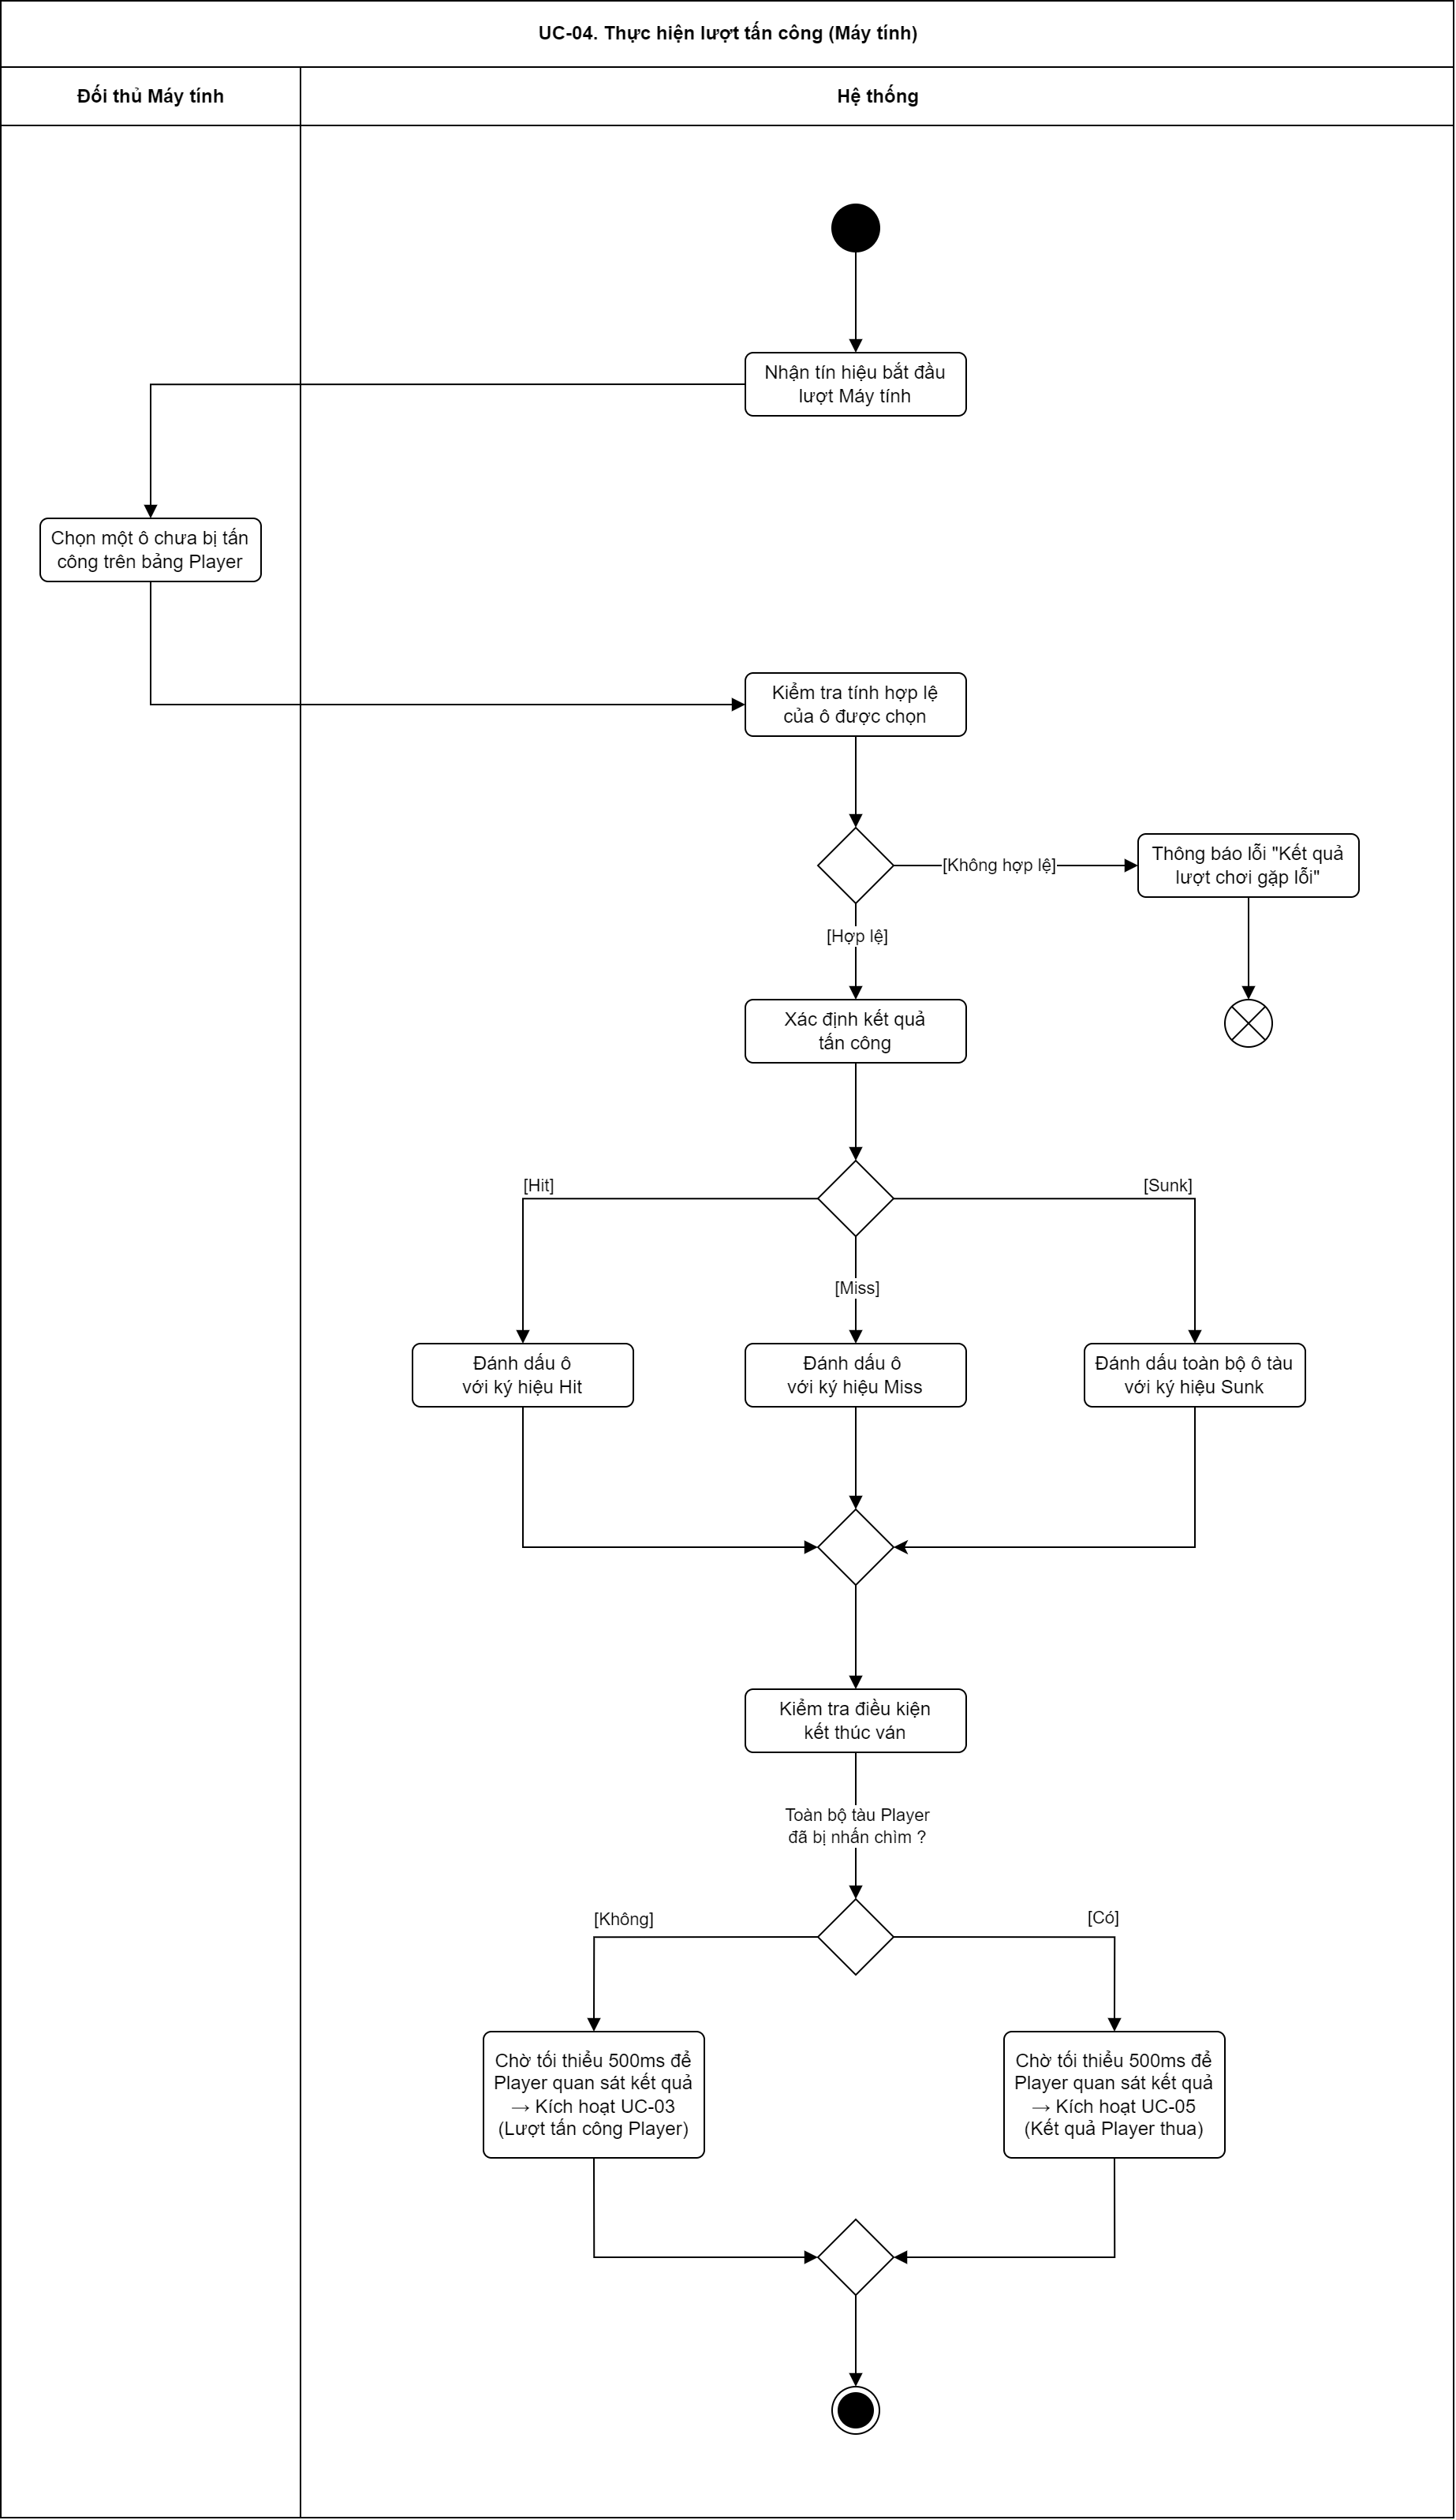
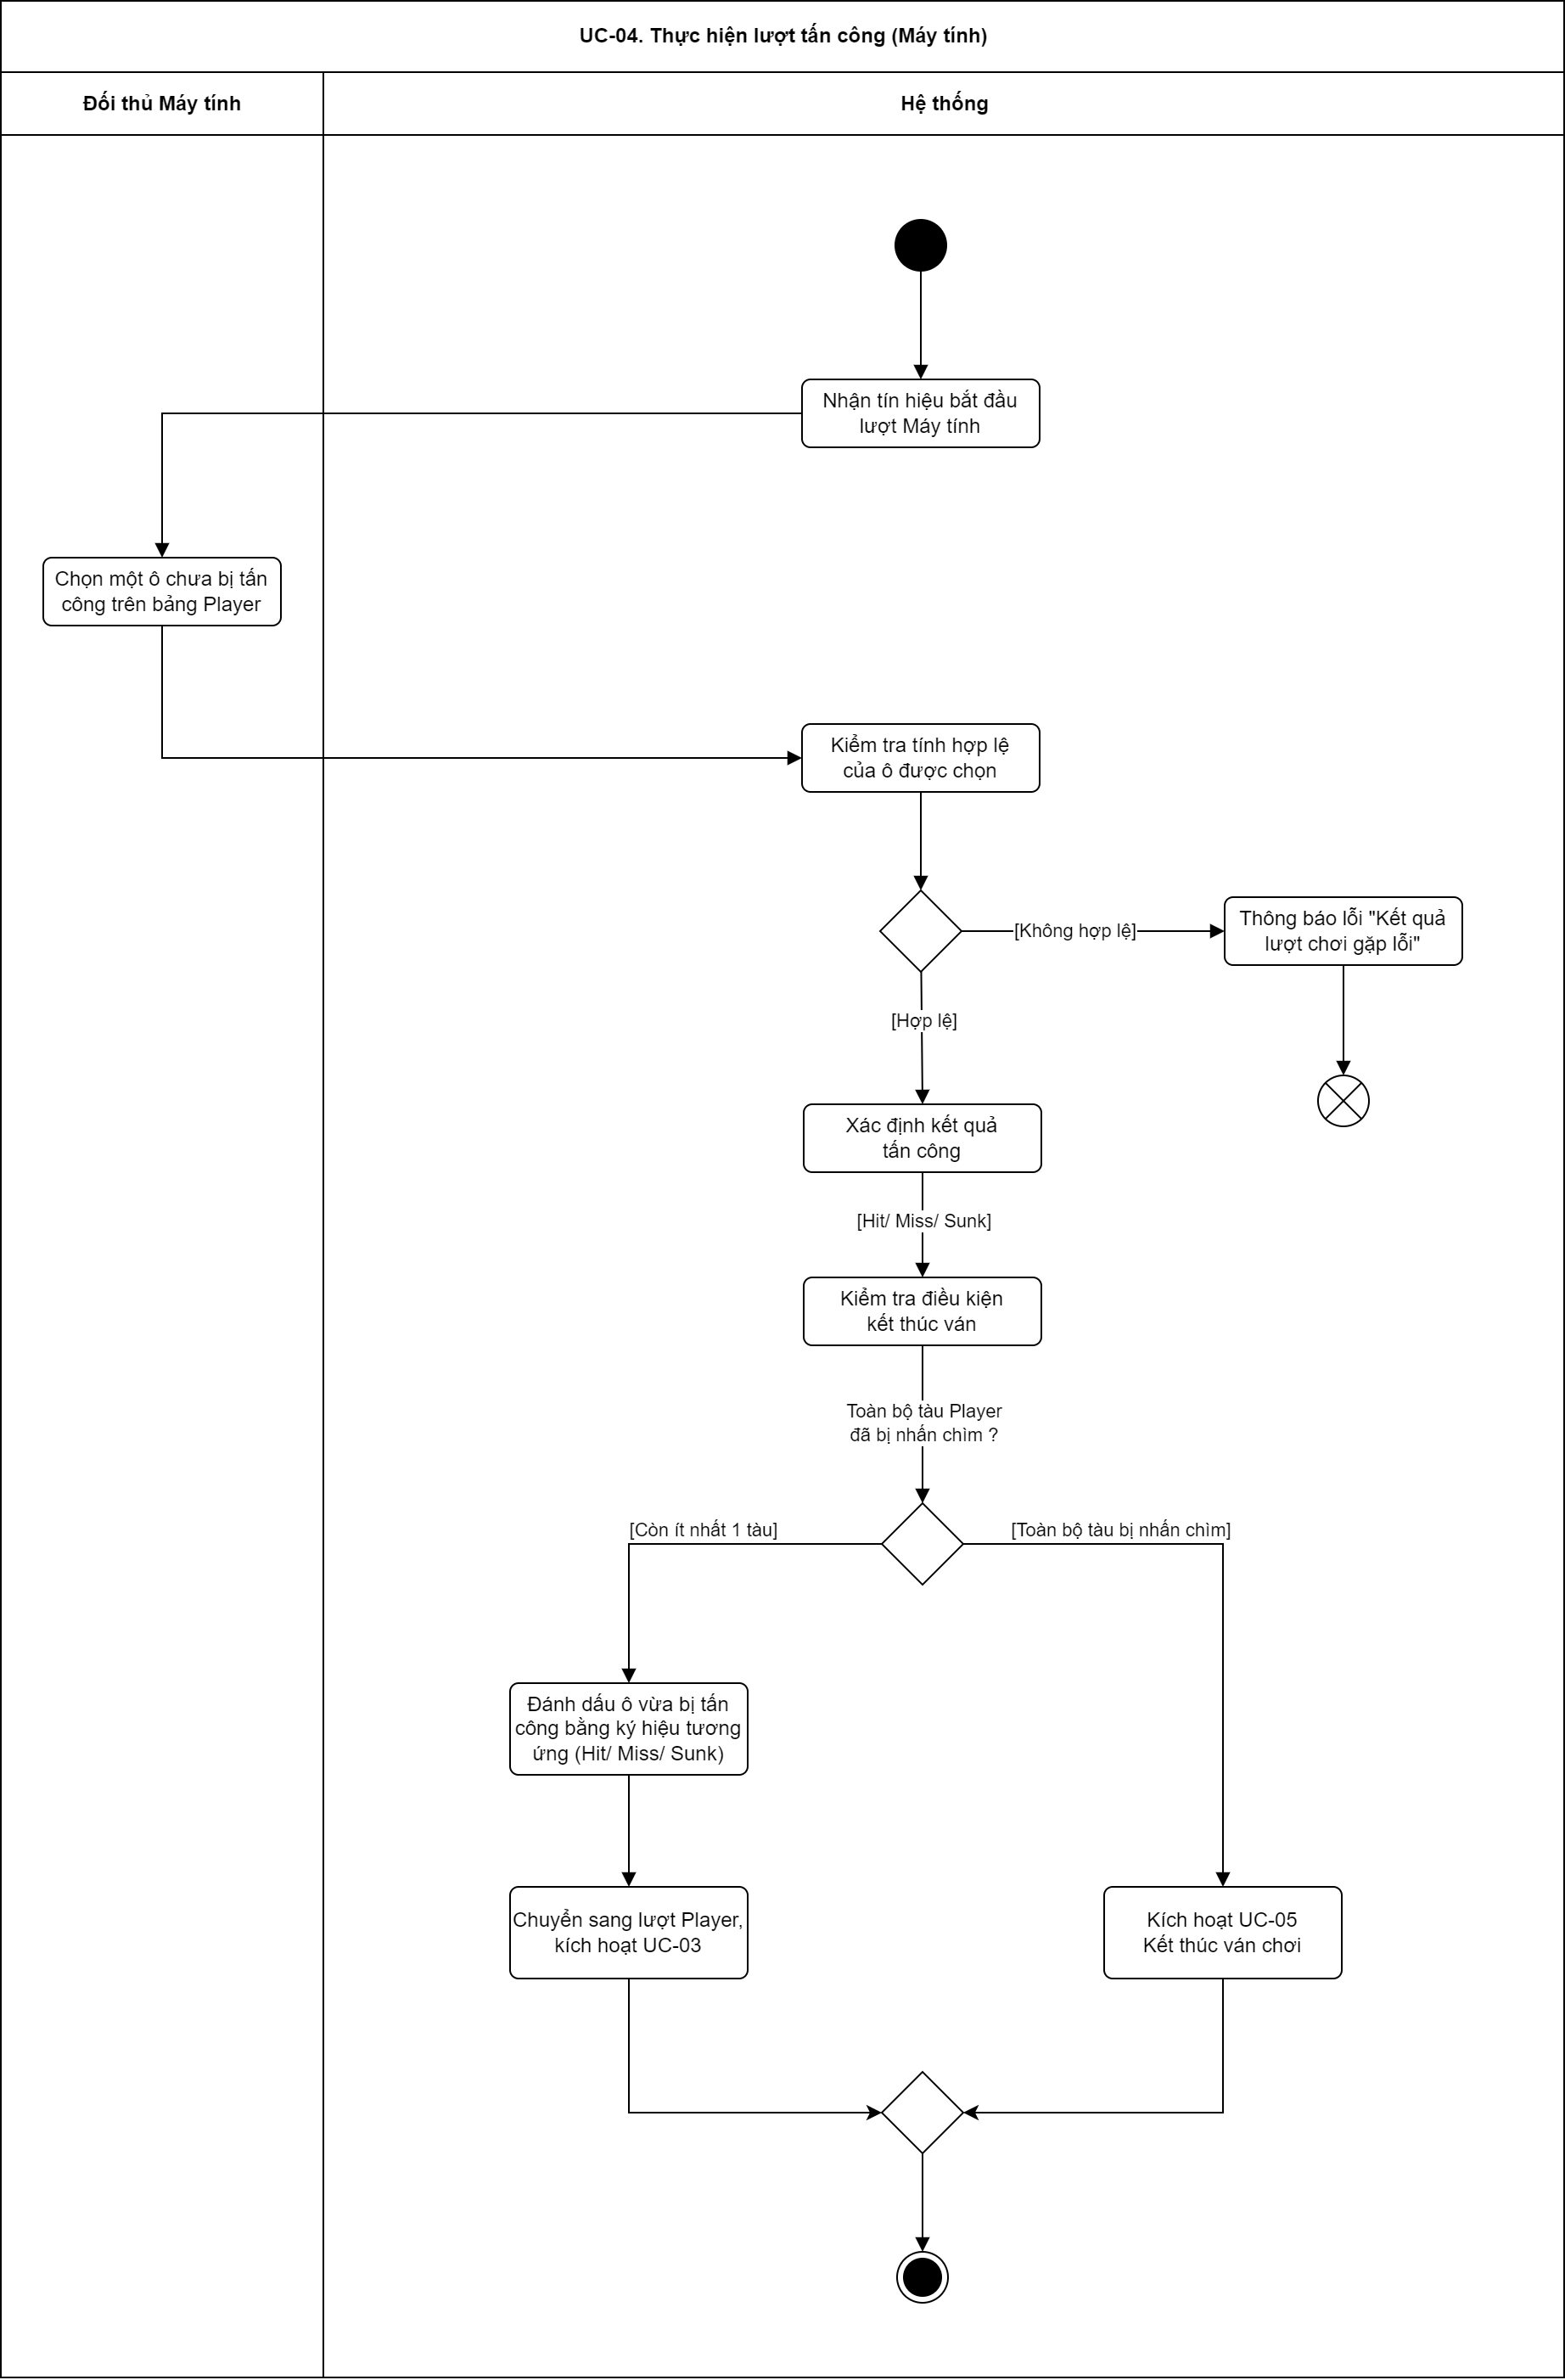
update comment #1

diff --git a/battle-ship/src/components/GameBoard.jsx b/battle-ship/src/components/GameBoard.jsx
@@ -3,33 +3,36 @@ import {useAppDispatch, useAppSelector} from '../store/index.js';
 import {playerAttack, clearError, computerAttack, addError} from '../store/gameSlice';
 import {DELAY_MS, PHASES} from '../constants/gameConstants';
 import Grid from './Grid.jsx';
-import {useEffect} from "react";
+import {useEffect, useState} from "react";
 import {selectAttackCell} from "../utils/computerLogic.js";
 import ShipList from "./ShipList.jsx";
 import '../styles/game-board.css';
+import '../styles/error.css';
 
 export default function GameBoard() {
+    const [errorMsg, setErrorMsg] = useState(null);
     const dispatch = useAppDispatch();
-    const {phase, playerBoard, playerFleet, computerBoard, computerFleet, lastAttackResult, errorMsg} =
+
+    // 4.2.1b Return updated state
+    const {phase, playerBoard, playerFleet, computerBoard, computerFleet, lastAttackResult} =
         useAppSelector((state) => state.game);
 
-    // 4.1 Nhận tín hiệu từ UC-03 -> phase = CPU_TURN
-    // 4.3e / 4.A1.2 / 4.A2.2 / 4.A3.2a / 4.6a updated state (playerBoard[row][col] = MISS)
+    // 4.1.0 UC-03 hoàn tất mà không kết thúc ván chơi → hệ thống cập nhật trạng thái lượt sang Máy tính
+    // 4.1.1 → (phase = CPU_TURN) → Nhận lượt từ hệ thống; bắt đầu xử lý lượt tấn công.
     useEffect(() => {
         if (phase !== PHASES.CPU_TURN) return;
 
-        // 4.A3.2b / 4.6b setTimeout(500ms)
         const timer = setTimeout(() => {
-            // 4.2 selectAttackCell(playerBoard)
             let cell = null;
             try {
+                // 4.1.2a Chọn một ô chưa bị tấn công trên bảng `Player` theo logic cơ bản
                 cell = selectAttackCell(playerBoard);
             } catch (error) {
-                // 4.E1.2b dispatch(addError({message: "Kết quả lượt chơi gặp lỗi. Vui lòng tải lại trang"}))
-                dispatch(addError({message: "Kết quả lượt chơi gặp lỗi. Vui lòng tải lại trang"}))
+                // 4.3.2a setErrorMsg = "Kết quả lượt chơi gặp lỗi. Vui lòng tải lại trang."
+                setErrorMsg("Kết quả lượt chơi gặp lỗi. Vui lòng tải lại trang.");
             }
 
-            // 4.3a dispatch(computerAttack({row: cell.row, col: cell.col}))
+            // 4.1.3 Xác định kết quả tấn công (Hit/ Miss/ Sunk)
             if (cell) dispatch(computerAttack({row: cell.row, col: cell.col}));
         }, DELAY_MS);
 
@@ -47,11 +50,12 @@ export default function GameBoard() {
     return (
         <div className="board-wrapper">
 
-            {/* 4.E1.2c toast: "Kết quả lượt chơi gặp lỗi. Vui lòng tải lại trang." */}
+            {/* 4.3.2b Hiển thị thông báo lỗi "Kết quả lượt chơi gặp lỗi.
+            Vui lòng tải lại trang." → toast(errorMsg) */}
             {errorMsg &&
                 <div className="error-screen">
                     <div className="error-message">
-                        <p>${errorMsg}</p>
+                        <p>{errorMsg}</p>
                         <button className="error-reload-btn"
                                 onClick={() => window.location.reload()}>
                             Tải lại trang
@@ -65,7 +69,7 @@ export default function GameBoard() {
                 <div className="game-section">
                     <ShipList fleet={playerFleet} />
                     <div className="game-board-area">
-                        {/* 4.4 / 4.A1.2 / 4.A2.2 re-render Player board */}
+                        {/* 4.2.2 Đánh dấu ô vừa bị tấn công và toàn bộ ô của tàu bị nhấn chìm bằng ký hiệu Sunk trên bảng `Player`.*/}
                         <Grid board={playerBoard} disabled />
                         <p className="game-board-label">Bảng Của Bạn</p>
                     </div>

diff --git a/battle-ship/src/store/gameSlice.js b/battle-ship/src/store/gameSlice.js
@@ -231,16 +231,16 @@ const gameSlice = createSlice({
         computerAttack(state, action) {
             const { row, col } = action.payload;
 
-            // 4.3b processAttack(playerBoard, playerFleet, row, col)
+            // 4.1.3b Xử lý logic lượt tấn công
             const attack = processAttack(state.playerBoard, state.playerFleet, row, col);
 
-            // 4.3d Update state {playerBoard = attack.board; playerFleet = attack.fleet}
+            // 4.1.3d Update state
             state.playerBoard = attack.board;
             state.playerFleet = attack.fleet;
 
-            // 4.5a Kiểm tra điều kiện kết thúc {isGameOver}
+            // 4.1.4 Kiểm tra điều kiện kết thúc ván
             if (attack.isGameOver) {
-                // 4.A3.1 Update state {phase = 'GAME_OVER', winner = 'COMPUTER'}
+                // 4.2.1a Xác định toàn bộ tàu `Player` đã bị nhấn chìm -> Update state
                 state.phase = PHASES.GAME_OVER;
                 state.winner = WINNER.COMPUTER;
             } else {

diff --git a/battle-ship/src/utils/computerLogic.js b/battle-ship/src/utils/computerLogic.js
@@ -21,11 +21,11 @@ export function selectAttackCell(playerBoard) {
         );
         const index = Math.floor(Math.random() * available.length);
 
-        // 4.2 Trả về ô hợp lệ chưa bị tấn công -> cell[row][col]
+        // 4.1.2b Trả về ô hợp lệ (chưa bị tấn công)
         return available[index];
 
     } catch (error) {
-        // 4.E1.2a throw error
+        // 4.3.1 Phát hiện lỗi khi kiểm tra tính hợp lệ của ô tại bước 4.1.2
         throw error;
     }
 }

diff --git a/battle-ship/src/components/StartScreen.jsx b/battle-ship/src/components/StartScreen.jsx
@@ -12,7 +12,7 @@ export default function StartScreen() {
             {errorMsg &&
                 <div className="error-screen">
                     <div className="error-message">
-                        <p>${errorMsg}</p>
+                        <p>{errorMsg}</p>
                         <button className="error-reload-btn"
                                 onClick={() => window.location.reload()}>
                             Tải lại trang

diff --git a/battle-ship/src/utils/attackUtils.js b/battle-ship/src/utils/attackUtils.js
@@ -104,7 +104,7 @@ export function processAttack(board, fleet, row, col) {
         }
     }
 
-    // 4.3c ← {board, fleet, result, isGameOver}
+    // 4.1.3c Trả kết quả lượt tấn công
     return {
         board: newBoard,
         fleet: newFleet,